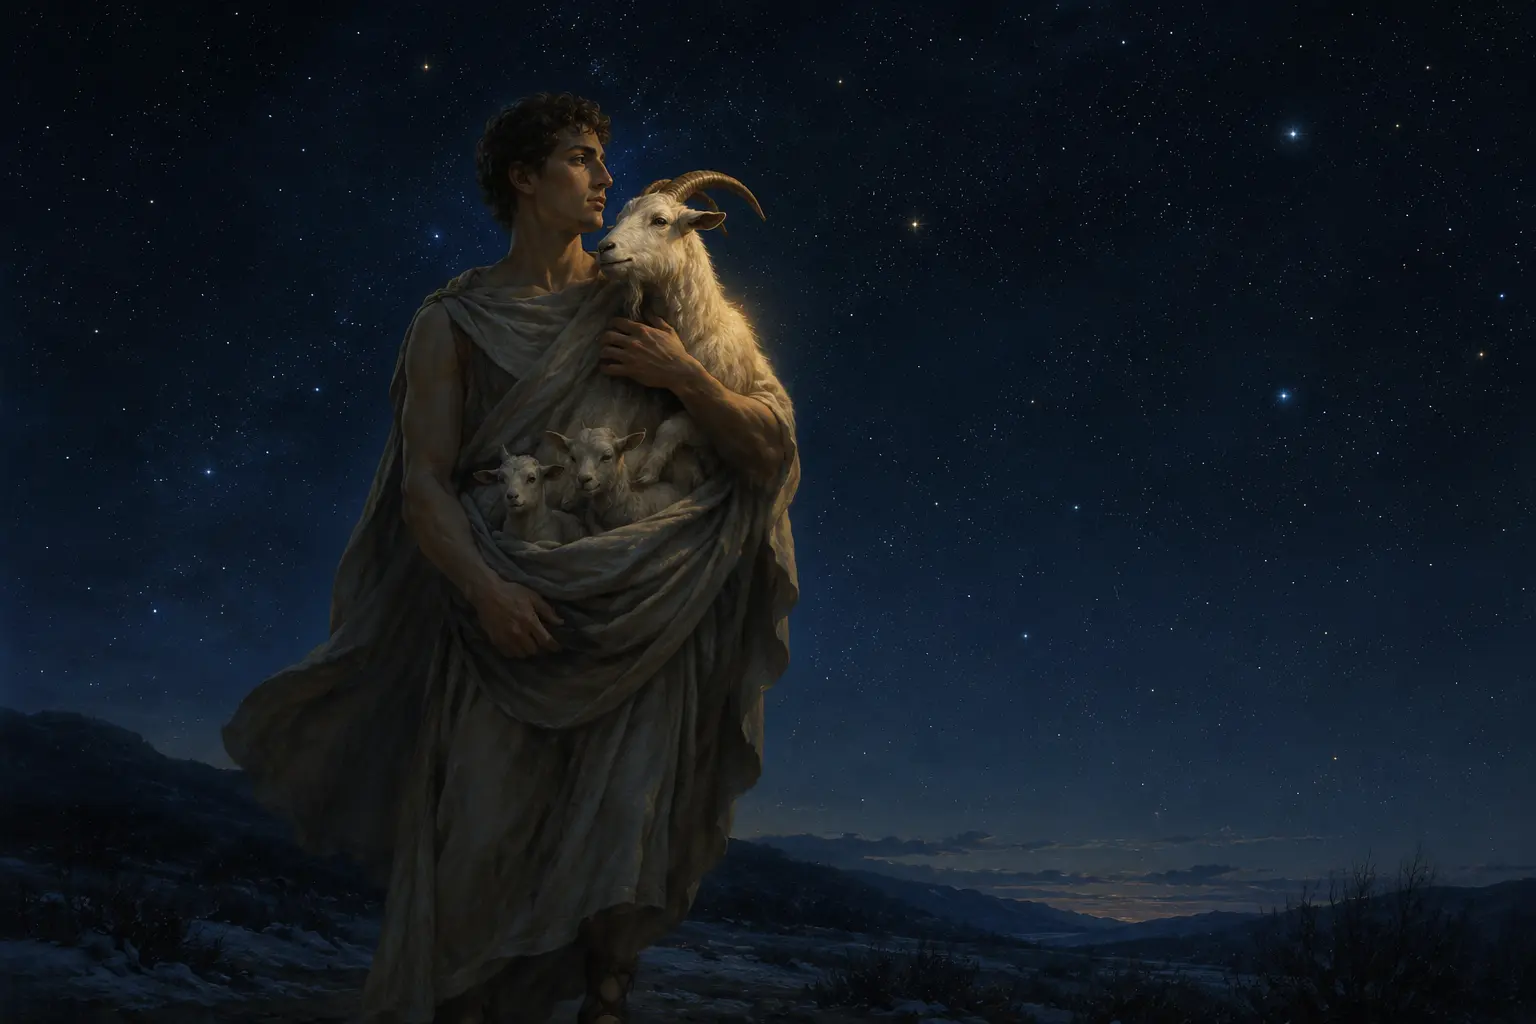
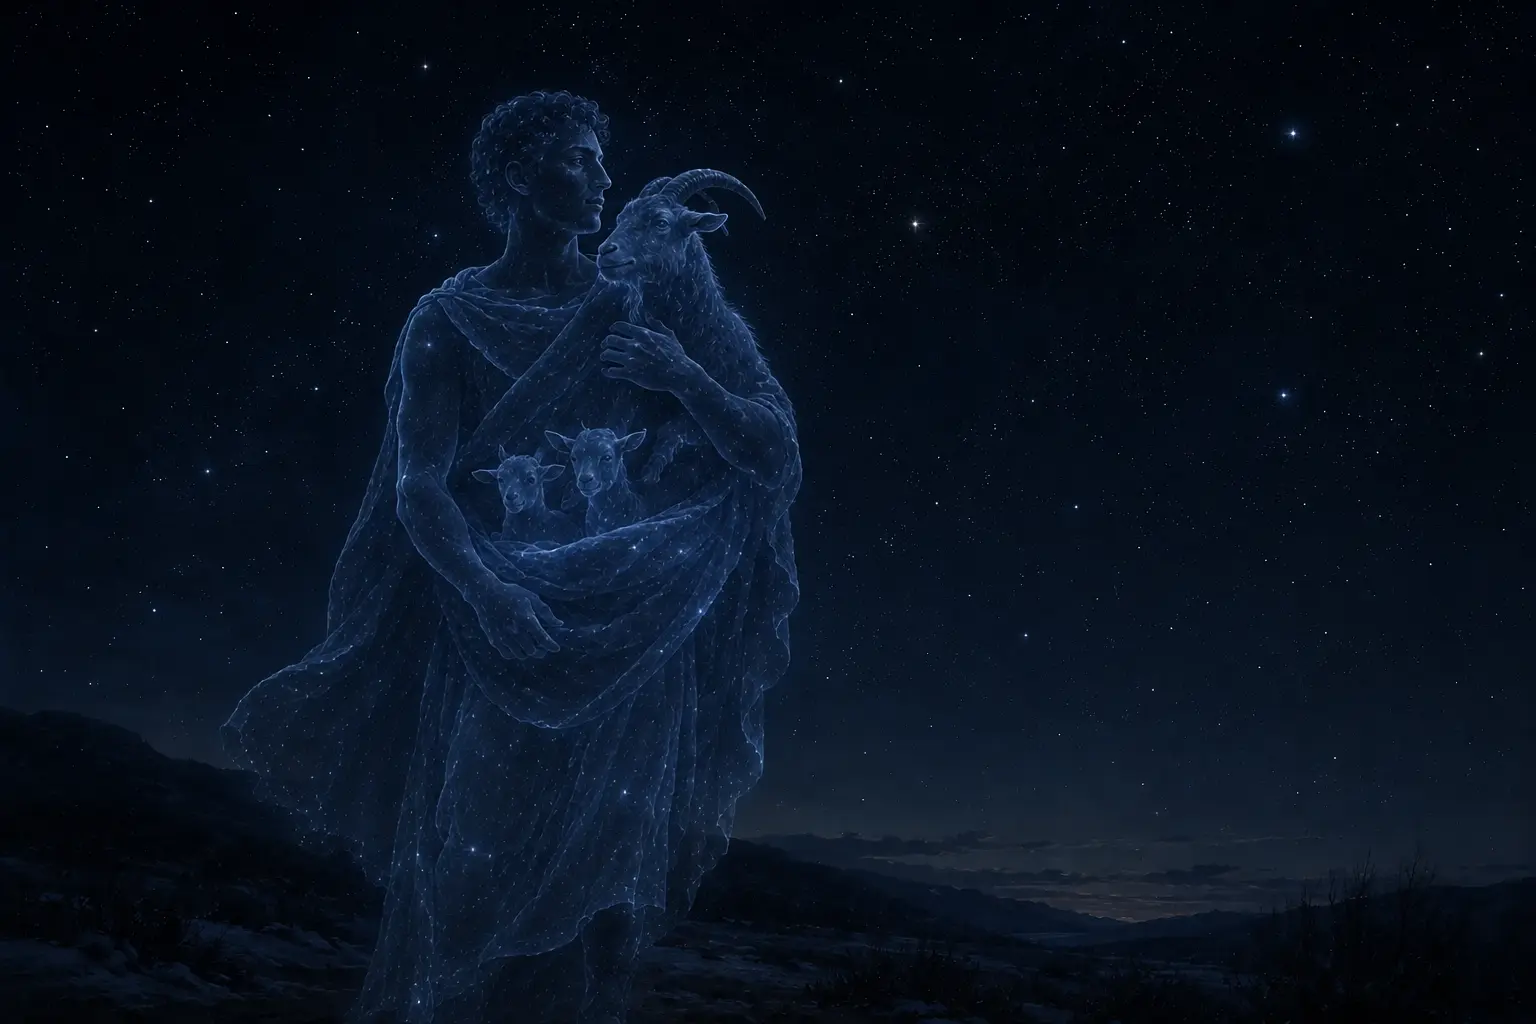
Refine Auriga imagined artwork

diff --git a/components/AurigaArt.tsx b/components/AurigaArt.tsx
@@ -4,6 +4,7 @@ import { AURIGA_LINES, AURIGA_STARS, projectAuriga } from "./AurigaMap";
 
 // One global similarity transform: rotation + uniform scale + translation.
 const ART_TRANSFORM = { a: 0.55, b: 0, x: 10, y: 15 };
+const ART_LINES = AURIGA_LINES.filter(([a, b]) => a !== "elnath" && b !== "elnath");
 
 function placeOnArtwork(point: { raHours: number; decDeg: number }) {
   const projected = projectAuriga(point);
@@ -21,18 +22,18 @@ export default function AurigaArt() {
     <figure className="art-card auriga-art-card">
       <img
         src="/images/auriga-mitologic.webp"
-        alt="Auriga imaginat com un cotxer serè que sosté una cabra i dues cabretes sota el cel d’hivern; un traç estel·lar subtil recorre la figura"
+        alt="Auriga imaginat com una figura celeste i translúcida que sosté una cabra i dues cabretes entre les estrelles"
       />
       <svg className="auriga-art-overlay" viewBox="0 0 100 100" preserveAspectRatio="none" aria-hidden="true">
-        {AURIGA_LINES.map(([a, b]) => (
+        {ART_LINES.map(([a, b]) => (
           <line key={`${a}-${b}`} x1={byId[a].x} y1={byId[a].y} x2={byId[b].x} y2={byId[b].y} />
         ))}
       </svg>
       <div className="auriga-art-points" aria-hidden="true">
-        {projected.filter(point => point.id !== "almaaz").map(point => (
+        {projected.filter(point => point.id !== "almaaz" && point.id !== "elnath").map(point => (
           <span
             key={point.id}
-            className={`auriga-art-star ${point.id === "capella" ? "capella" : ""} ${point.id === "elnath" ? "elnath" : ""}`}
+            className={`auriga-art-star ${point.id === "capella" ? "capella" : ""}`}
             style={{ left: `${point.x}%`, top: `${point.y}%` }}
           />
         ))}
